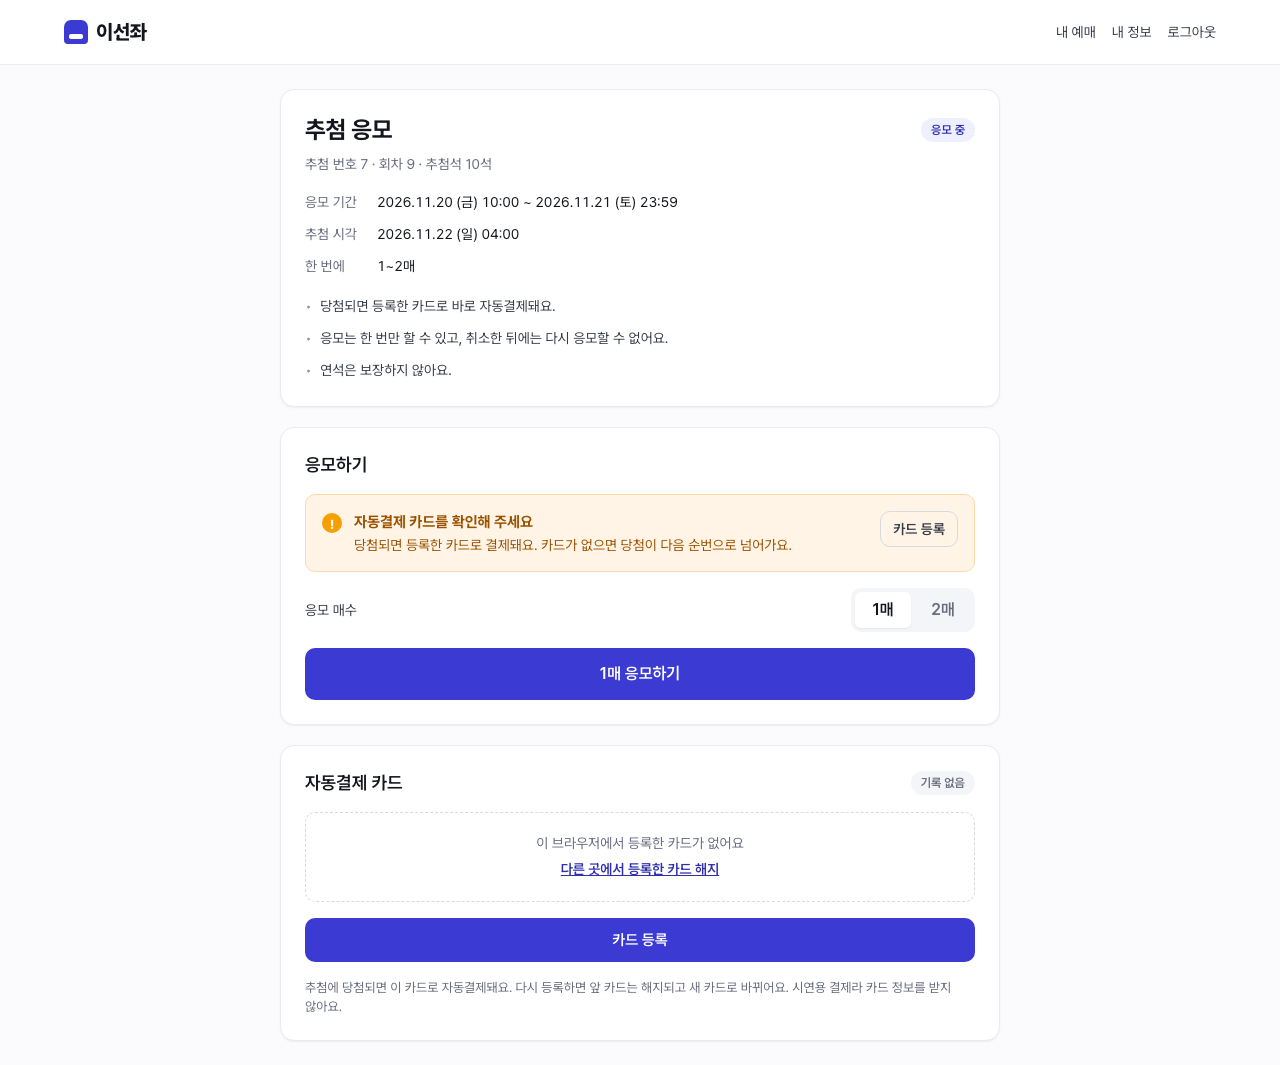
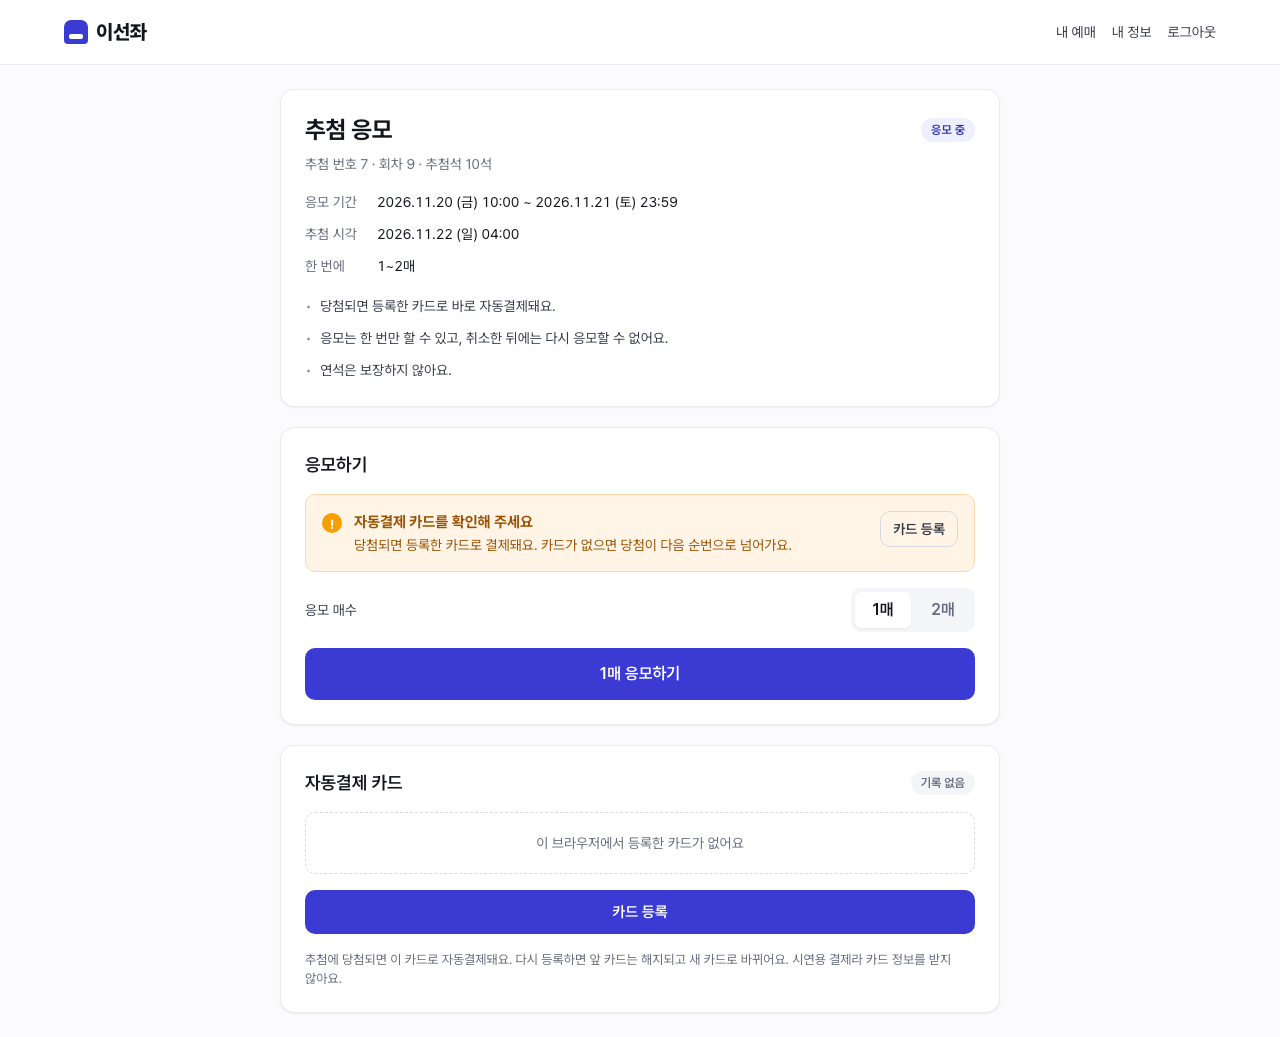
docs(frontend): 자동결제 카드 규칙·추첨 샘플에서 기록 없을 때 해지 버튼을 빼고 AI 판단 기록 #ISE-186

diff --git a/docs/design/frontend/samples/lottery.html b/docs/design/frontend/samples/lottery.html
@@ -266,7 +266,7 @@ button { font:inherit; }
     <section class="card block" aria-labelledby="cardTitle" data-part="card">
       <div class="block-head"><h2 class="t-heading" id="cardTitle">자동결제 카드</h2><span class="status ok" id="cardStatus">등록됨</span></div>
       <div class="card-row" data-card="registered"><span class="card-chip" aria-hidden="true"></span><div><b>시연용 카드</b><p class="t-body-sm muted">•••• 4242 · 11.20 등록</p></div><button class="btn btn-ghost">해지</button></div>
-      <div data-card="none" style="display:grid; justify-items:center; gap:4px; padding:var(--space-5) var(--space-4); border:1px dashed var(--border-strong); border-radius:var(--radius-md); text-align:center"><p class="t-body-sm muted">이 브라우저에서 등록한 카드가 없어요</p><a href="#" style="font-size:14px; font-weight:600; color:var(--primary-700)">다른 곳에서 등록한 카드 해지</a></div>
+      <div data-card="none" style="display:grid; justify-items:center; gap:4px; padding:var(--space-5) var(--space-4); border:1px dashed var(--border-strong); border-radius:var(--radius-md); text-align:center"><p class="t-body-sm muted">이 브라우저에서 등록한 카드가 없어요</p></div>
       <button class="btn btn-primary" data-card="none">카드 등록</button>
       <button class="btn btn-ghost" data-card="registered">다른 카드로 바꾸기</button>
       <p class="hint">추첨에 당첨되면 이 카드로 자동결제돼요. 다시 등록하면 앞 카드는 해지되고 새 카드로 바뀌어요. 시연용 결제라 카드 정보를 받지 않아요.</p>

diff --git a/docs/design/frontend/README.md b/docs/design/frontend/README.md
@@ -268,14 +268,14 @@ nginx는 `/api/`만 Gateway로 넘기고 서비스로 직접 넘기지 않는다
 
 | 규칙 | 동작 | 이유 |
 |---|---|---|
-| 보유 표시 | 이 브라우저에서 등록에 성공하면 카드 끝 네 자리와 등록일을 사용자별로 기록해 두고 "등록됨 / 시연용 카드 •••• 4242 · 11.04 등록"을 보인다. 기록이 없으면 "기록 없음 / 이 브라우저에서 등록한 카드가 없어요"와 [카드 등록], [다른 곳에서 등록한 카드 해지] | 빌링키 보유 여부를 묻는 API가 없다. 등록·해지 응답만 쓴다. 기록이 없어도 서버에 카드가 있을 수 있어(다른 브라우저에서 등록, 등록 결과를 받지 못함) "없음"이라 단정하지 않고 해지를 늘 남긴다(셀프 리뷰) |
+| 보유 표시 | 이 브라우저에서 등록에 성공하면 카드 끝 네 자리와 등록일을 사용자별로 기록해 두고 "등록됨 / 시연용 카드 •••• 4242 · 11.04 등록"을 보인다. 기록이 없으면 "기록 없음 / 이 브라우저에서 등록한 카드가 없어요"와 [카드 등록]만 두고 해지 버튼은 두지 않는다 | 빌링키 보유 여부를 묻는 API가 없다. 등록·해지 응답만 쓴다. 처음에는 다른 브라우저에서 등록한 카드를 위해 기록이 없어도 해지 버튼을 두었으나, 등록하지 않은 사용자에게 해지 버튼이 보여 혼란스럽다는 사용자 확인으로 없앴다(ISE-186). 다른 곳의 카드가 서버에 남아 있어도 다시 등록하면 앞 카드가 해지되고 새 카드로 바뀐다. 등록 결과를 모를 때만 안내에 [해지]를 둔다 |
 | 등록 | 시연 결제(Mock PG)에 `demo-<UUID>`를 인증 값으로 보낸다. UUID는 멱등키와 같은 `newIdempotencyKey`로 만든다. 기록이 있으면 버튼이 [다른 카드로 바꾸기]다 | 실제 PG라면 결제창이 인증 값을 준다(ISE-125). `crypto.randomUUID()`는 http 배포 주소에서 없어 쓰지 않는다(localhost에서는 있어 로컬 확인으로는 드러나지 않았다, 셀프 리뷰). 서버는 사용자당 카드를 하나만 두고, 다시 등록하면 앞 카드를 해지한다 |
 | 등록 실패 | 400 `BILLING_KEY_REJECTED` "카드사가 등록을 거절했어요", 503 `PG_UNAVAILABLE` "카드사 연결이 원활하지 않아요", 응답 없음·504 "등록됐는지 확인하지 못했어요 / 다시 등록하면 새 카드로 바뀌어요. 쓰지 않으려면 해지해 주세요"와 [해지], 그 밖은 공통 오류 안내. 해지하면 등록 실패 안내를 지운다 | 등록에는 멱등키가 없지만 다시 등록해도 새 카드로 바뀔 뿐이라 그대로 다시 누르게 한다. 503은 서버가 저장하지 않고 앞 카드도 그대로 두므로(`BillingKeyService`) "등록 안 됨"이 맞다 |
 | 해지 | 확인 대화상자("자동결제 카드를 해지할까요? / 응모한 추첨에 당첨되면 결제되지 않아 당첨이 다음 순번으로 넘어가요")를 거친다. 요청 중에는 닫을 수 없고, 실패하면 대화상자 안에 오류를 둔다(다시 열면 지난 오류는 지운다). 닫으면 연 버튼으로, 그 버튼이 사라졌으면 등록 버튼으로 초점을 돌린다. `revoked: true`면 "자동결제 카드를 해지했어요", `false`면 "등록된 카드가 없었어요"이고 둘 다 기록을 지운다 | 당첨 때 카드가 없으면 서버가 결제를 거절(`BILLING_KEY_MISSING`)로 끝내고 당첨을 예비자에게 넘긴다(`BillingPaymentService`). 되돌릴 수 없는 결과라 한 번 더 묻는다 |
 | 같은 화면·다른 탭 | 기록을 저장·삭제하면(`auth/billingKeyRecord.ts`) 같은 사용자의 카드가 모두 바로 바뀌고(`useSyncExternalStore`), 다른 탭의 변경은 `storage` 이벤트로 받는다. 카드마다 제목 id를 따로 만든다(`useId`) | 추첨 화면에서 등록하고 내 정보로 가거나, 한 화면에 카드가 둘일 때 어긋나지 않게 한다 |
 
 나중에 고칠 것(백엔드가 제공하면 붙인다):
-- 보유 조회 API가 없어 다른 브라우저에서 등록한 카드나 서버에서 해지된 카드는 이 화면이 모른다. 기록이 없을 때는 "기록 없음"과 [다른 곳에서 등록한 카드 해지]로 대신한다.
+- 보유 조회 API가 없어 다른 브라우저에서 등록한 카드나 서버에서 해지된 카드는 이 화면이 모른다. 기록이 없으면 "기록 없음"과 [카드 등록]만 보이므로, 다른 브라우저에서 등록한 카드를 이 화면에서 해지할 수는 없다(다시 등록하면 바뀐다).
 - 카드사·카드 이름이 응답에 없어 "시연용 카드"로 쓴다.
 
 확인한 것(2026-11-04):

diff --git a/docs/ai-judgments/junhyun/2026-11-05-billing-card-no-revoke-without-record.md b/docs/ai-judgments/junhyun/2026-11-05-billing-card-no-revoke-without-record.md
@@ -1,0 +1,41 @@
+---
+title: 등록 기록이 없을 때도 자동결제 카드 해지 버튼을 둔 AI 설계를 거두고 버튼을 없애게 함
+date: 2026-11-05
+updated: 2026-11-05
+judge: Junhyun An
+ai: Claude Code (ISE-122 구현, Opus 셀프 리뷰)
+verdict: 거부
+area: 결제
+presentation: 아님
+shared: 아니오
+---
+
+# 등록 기록이 없을 때도 자동결제 카드 해지 버튼을 둔 AI 설계를 거두고 버튼을 없애게 함
+
+## 맥락
+- 해결하려던 작업: 머지된 프론트(ISE-115~124)를 프로덕션 빌드로 띄워 직접 확인했다.
+- AI 활용 방식: ISE-122 자동결제 카드 화면을 Claude Code가 설계·구현했고, 셀프 리뷰(Opus)를 반영했다.
+
+## AI 제안
+- 빌링키 보유 조회 API가 없어 화면은 이 브라우저의 등록 기록으로 카드 상태를 보인다.
+- 기록이 없어도 서버에 카드가 있을 수 있다(다른 브라우저에서 등록, 등록 결과를 받지 못함). 그래서 "없음"이라 단정하지 않고 기록이 없을 때도 [다른 곳에서 등록한 카드 해지] 버튼을 늘 두었다.
+
+## 판단
+- 결과: 거부
+- 판단자: Junhyun An
+- 근거: "아무 카드도 등록되지 않았는데 해지 버튼이 있는 것 삭제해 주고"
+- 검토한 대안: 없음. 사용자가 바로 삭제를 지시했다.
+
+## 반영
+- ISE-186: 기록이 없으면 [카드 등록]만 두고 해지 버튼을 없앴다(`frontend/src/components/ticketing/BillingKeyCard.tsx`).
+- 다른 곳에서 등록한 카드가 서버에 남아 있어도 다시 등록하면 앞 카드가 해지되고 새 카드로 바뀐다(`BillingKeyService`). 등록 결과를 모를 때의 안내에 있는 [해지]는 그 순간 카드가 생겼을 수 있어 남겼다.
+- 디자인 문서 "자동결제 카드 규칙", 추첨 샘플(`samples/lottery.html`)과 캡처.
+
+## 검증
+- 기록이 없으면 해지 버튼이 없고, 서버에 다른 카드가 있어도 등록하면 새 카드 하나만 ACTIVE인 테스트를 더했다. 컴포넌트를 되돌리면 두 테스트가 실패한다.
+
+## 판단 이력
+- 2026-11-05 거부: 기록 없는 상태의 해지 버튼을 없앰
+
+## 발표·면접 포인트
+- 서버 상태를 알 수 없을 때 "가능한 경우를 모두 열어 두는" 설계가 사용자에게는 이유 없는 버튼으로 보였다. 드문 경우(다른 브라우저 등록)는 재등록이 덮어쓰므로, 흔한 경우의 화면을 단순하게 두는 쪽을 골랐다.

diff --git a/docs/ai-judgments/junhyun/README.md b/docs/ai-judgments/junhyun/README.md
@@ -8,6 +8,7 @@ junhyun이 AI 응답·제안에 내린 판단이다. 작성 절차는 [`ai-judgm
 
 | 날짜 | 판단 대상 | AI | 판단 | 공통 | 발표 후보 | 기록 |
 |---|---|---|---|---|---|---|
+| 2026-11-05 | 등록 기록이 없을 때도 자동결제 카드 해지 버튼을 둔 AI 설계를 거두고 버튼을 없앰(ISE-186) | Claude Code | **거부** | 아니오 | 아님 | [기록](2026-11-05-billing-card-no-revoke-without-record.md) |
 | 2026-11-04 | 배포는 EC2 한 대로 시작하고, 서버를 멈춘 기간(11/7~11/12)에 RDS 등 매니지드 서비스 분리를 검토하기로 함(ADR 0047) | Claude Code | 수용 | 예 | 후보 | [기록](2026-11-04-single-ec2-then-review-managed.md) |
 | 2026-11-04 | 리허설 일정에 맞춰 측정 전에 배포 EC2를 16GB급으로 정하고 AWS Paid plan으로 바꿈 | Claude Code | 수용 | 예 | 아님 | [기록](2026-11-04-deploy-ec2-16gb-paid-plan.md) |
 | 2026-11-04 | 로컬 테스트 환불의 반복 알림을 무음으로 끈 AI 처리를 거두고 로컬 데이터를 한 번 정상화(close-failed와 같은 전이를 SQL로)하게 함 | Claude Code | **거부** | 아니오 | 아님 | [기록](2026-11-04-local-refund-alert-fix-data.md) |
